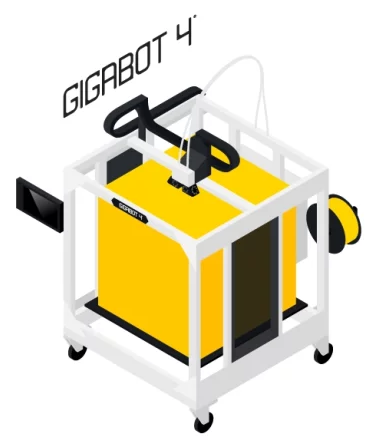
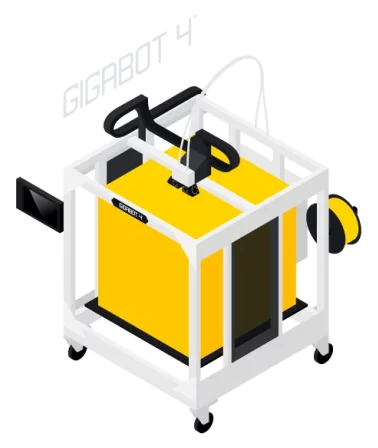
Remove image backgrounds.

Changed region(s): [[0.1455, 0.0625, 0.4365, 0.2812], [0.4656, 0.0312, 0.5238, 0.0938]]

diff --git a/src/modules/fullpageos/filesystem/opt/mconfig/www/index.html b/src/modules/fullpageos/filesystem/opt/mconfig/www/index.html
@@ -403,7 +403,7 @@
   .openbox-welcome h2 span { color: var(--brand) }
   .openbox-welcome p { max-width: 430px; color: var(--muted) }
   .openbox-welcome-route { display: flex; flex-wrap: wrap; gap: 16px; margin: 24px 0; font-size: 12px; color: var(--fg) }
-  .openbox-welcome-image { display: block; width: 100%; height: auto; object-fit: contain; max-width: 330px; justify-self: center; border-radius: var(--radius-sm); filter: brightness(.88); animation: openbox-arrive .8s .15s ease-out both }
+  .openbox-welcome-image { display: block; width: 100%; height: auto; object-fit: contain; max-width: 330px; justify-self: center; border-radius: var(--radius-sm); animation: openbox-arrive .8s .15s ease-out both }
   @keyframes openbox-arrive { from { opacity: 0; transform: translateY(12px) } to { opacity: 1; transform: translateY(0) } }
   .openbox-slide { display: grid; grid-template-columns: minmax(0, .6fr) minmax(0, 1.4fr); gap: 24px; margin: 20px 0 }
   .openbox-slide figure { margin: 0 }
